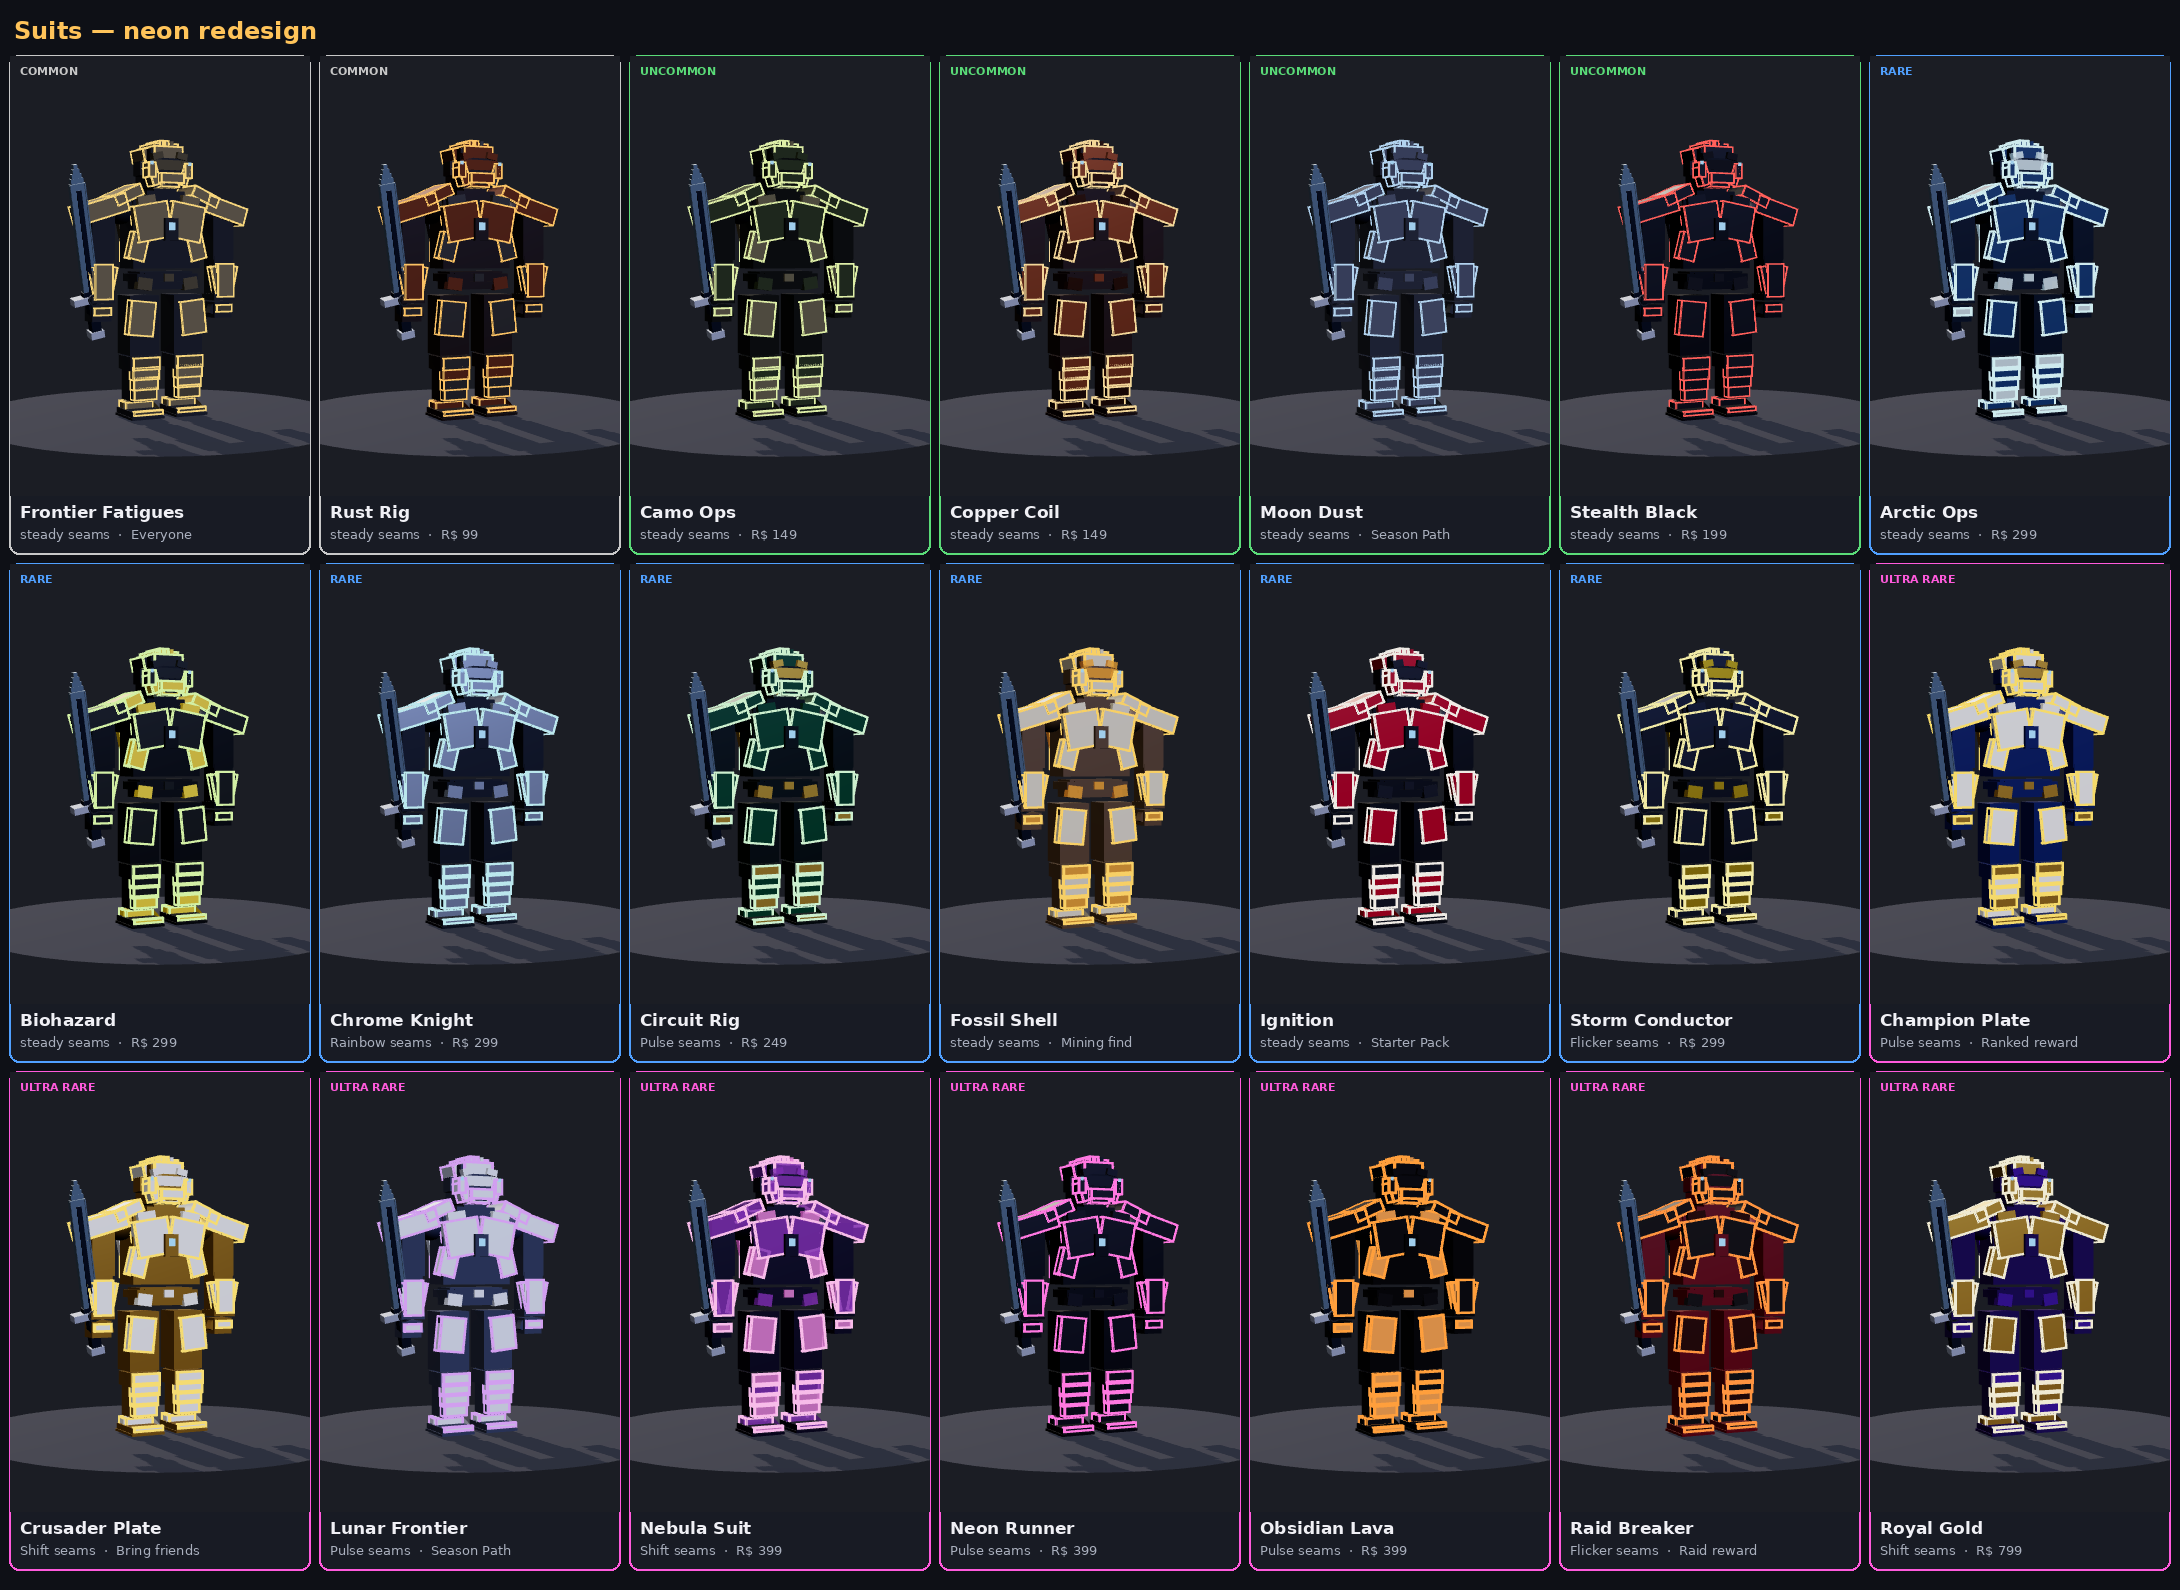
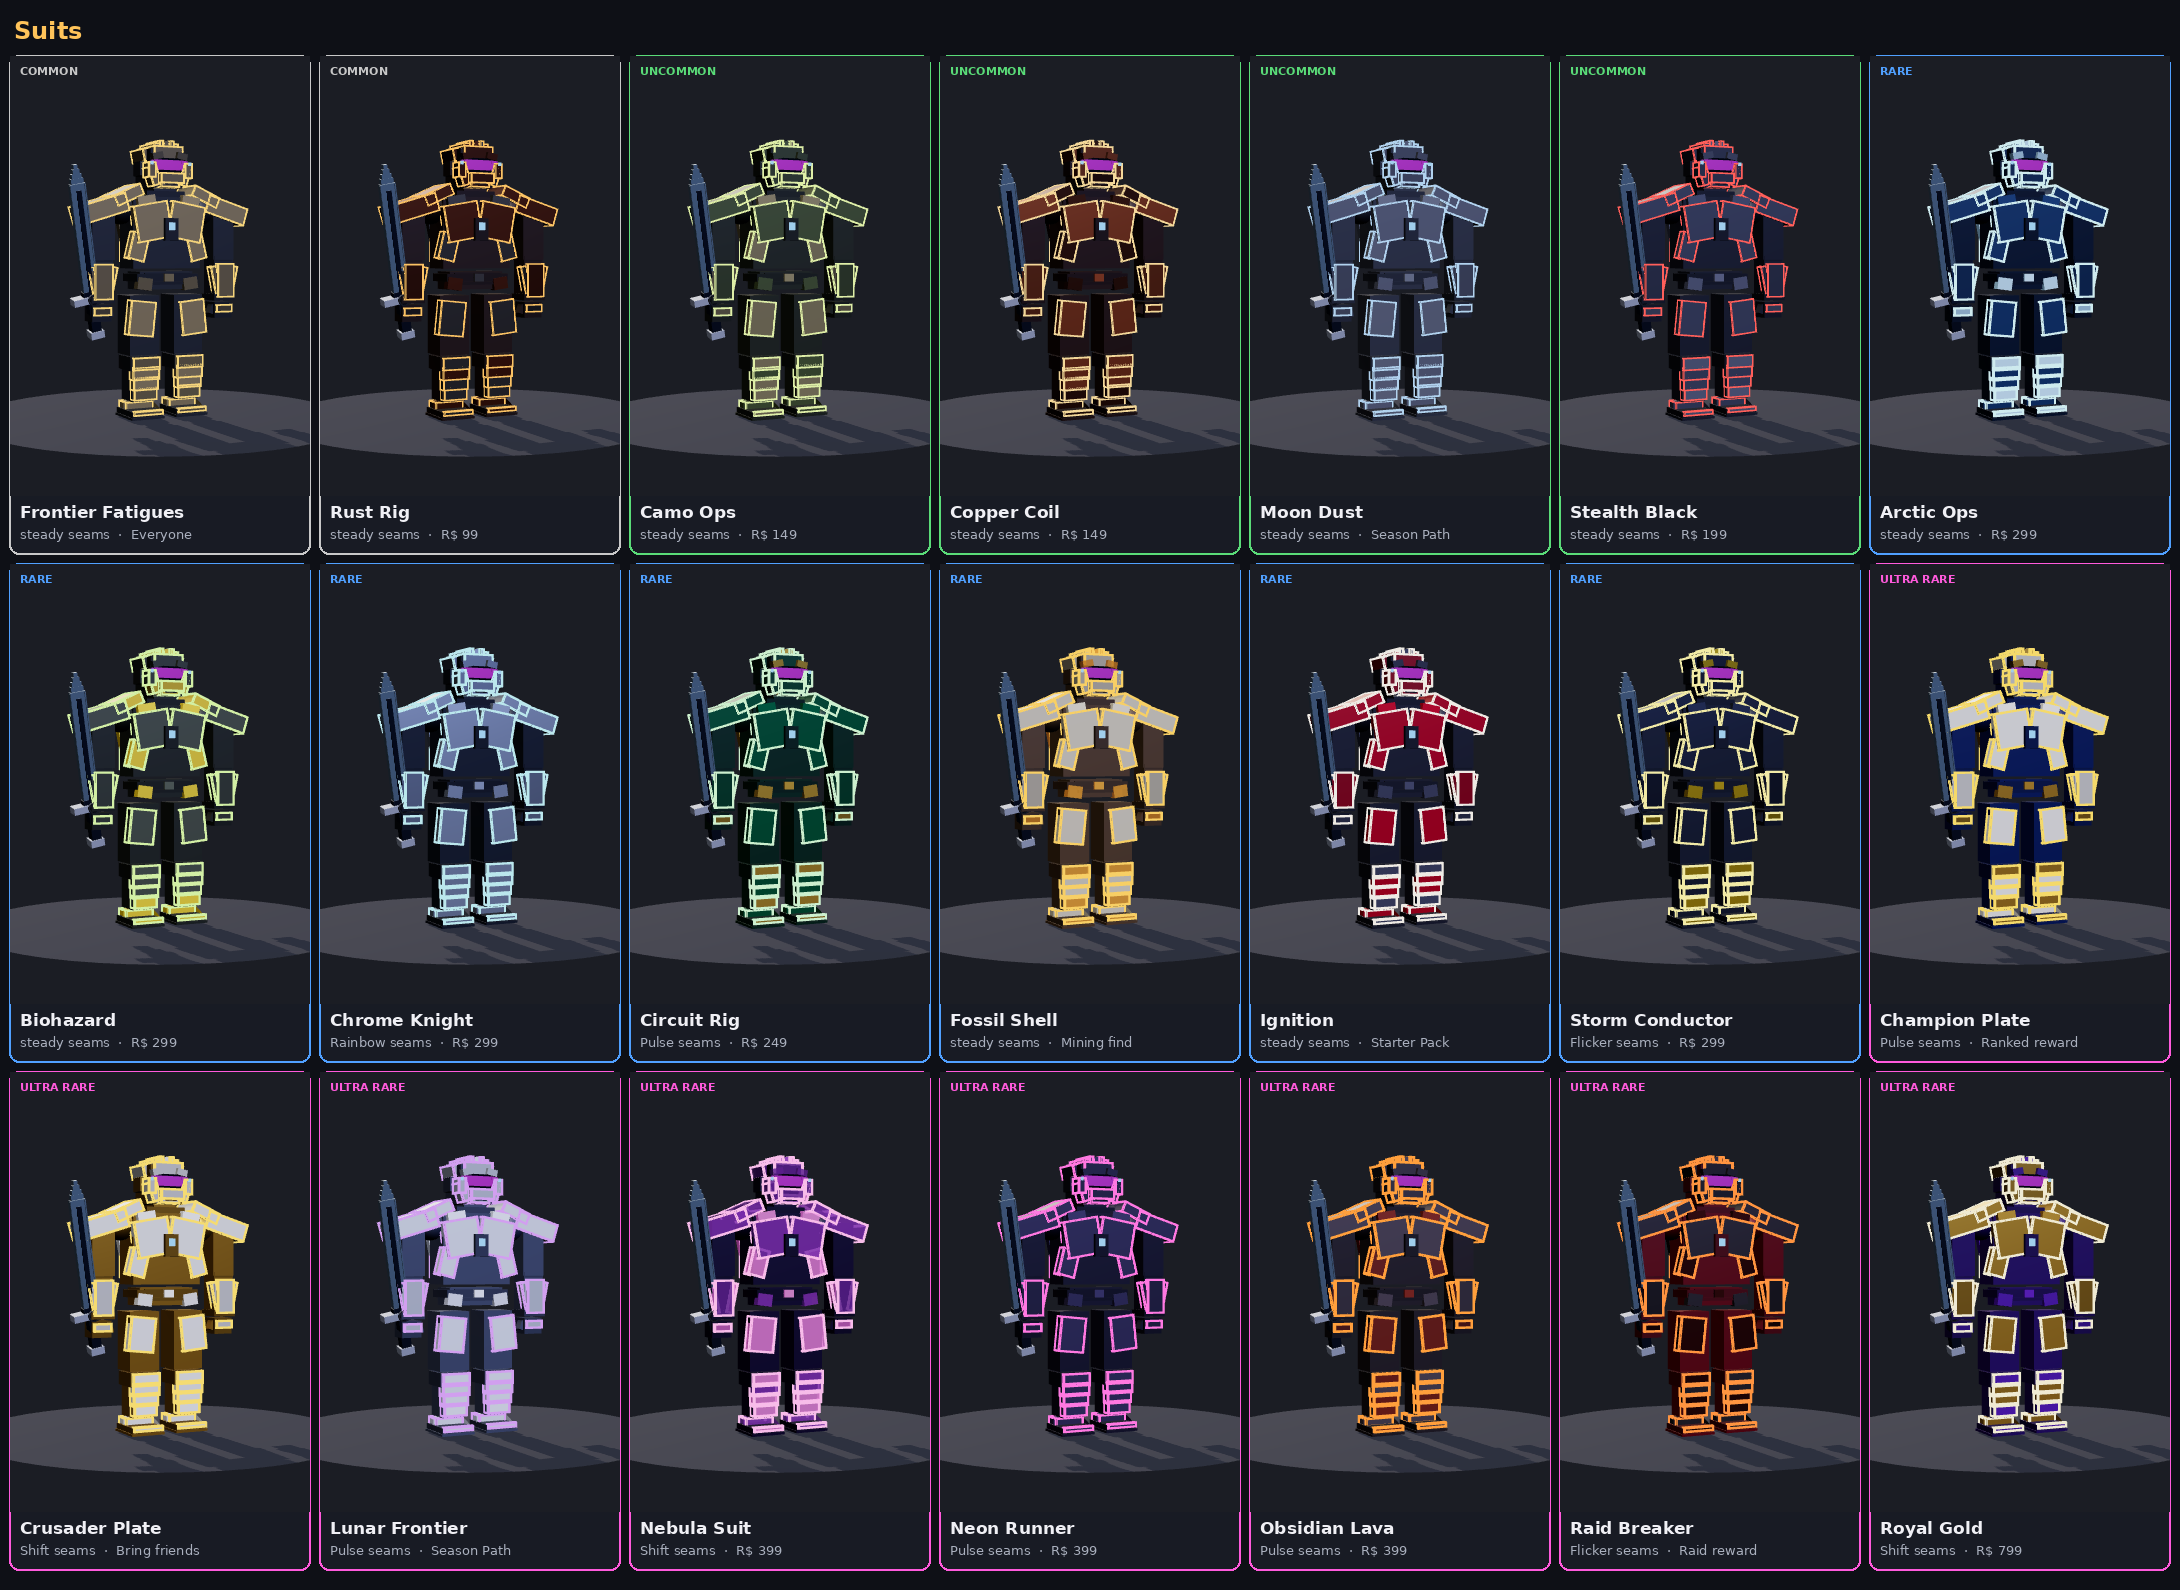
Suits keep the armour's look: default visors, light and shade, no blackout, clean finishes
- Visors keep their own colour under every suit: helmet visor glass,
  backing, light strips and the Frontier recess are marked Visor and the
  suit repaint skips them.
- A suit now shades its colours by each plate's own light and dark
  instead of flattening them, with brightness floors, so dark suits
  (Stealth Black, Neon Runner, Obsidian, Biohazard) read as gunmetal with
  visible plate detail rather than a black silhouette.
- Gritty textures (Fabric, Concrete, Slate, Corroded Metal, Diamond Plate
  and the like) are gone from suits and skins: smooth plastic or metal.
  Weapon skins keep lava, ice, wood and glass blades.
- Tests: every visor part is marked (15 helmets), and no suit or skin uses
  a textured finish. The stub Instance gains attributes, keeping any
  SetAttribute a runner patches in.

Claude-Session: https://claude.ai/code/session_01M9AaiFqQ2dWL5tTu8tuKaL

diff --git a/docs/skins-and-selling.md b/docs/skins-and-selling.md
@@ -96,6 +96,21 @@ A palette can ask for more than one colour:
 | `SeamWidth` | The outline's thickness, from 0.018 (Frontier) to 0.036 (Solar Flare). Rarer looks get bolder lines. |
 | `SeamFx` | Makes the outlines move (see below). Without it they stay steady. |
 
+### How a suit paints armour
+
+A suit recolours the armour you wear (`repaint` in `Equipment.luau`, with `suit` set), but keeps it looking like armour:
+
+- **The visor stays as it is.** The builders mark visor parts (the glass, the dark well behind it, a bucket helm's slits) with a `Visor` attribute (`ArmorKits.visorPart`). The repaint skips them, so every suit keeps your armour's own visor colour.
+- **Light and shade are kept.** Each part takes the palette's colour at its own relative brightness, so a lighter edge stays lighter and a deep trim deeper, and the armour's detail still reads.
+- **Nothing blacks out.**
+  - A part keeps at least 85% of its own brightness under the plates, and 55% on them.
+  - There's also a floor for each.
+  - Dark suits (Stealth Black, Neon Runner, Obsidian Lava) read as gunmetal and indigo with their plates showing, not as a black silhouette.
+- **Clean finishes only.**
+  - Suits use SmoothPlastic, Metal, Foil, Glass or Neon. Gritty textures (fabric weave, rust, concrete, slate, basalt, marble) are gone.
+  - Weapon skins drop the gritty ones too. They keep the materials that make them: Molten Core's lava blade, Glacier Shard's ice, Bonk Bat's wood.
+  - `tests/skins_store_cases.luau` checks this for every look.
+
 ### The neon look
 
 Every suit and every weapon skin has glowing outlines, like Neon Runner and Raid
